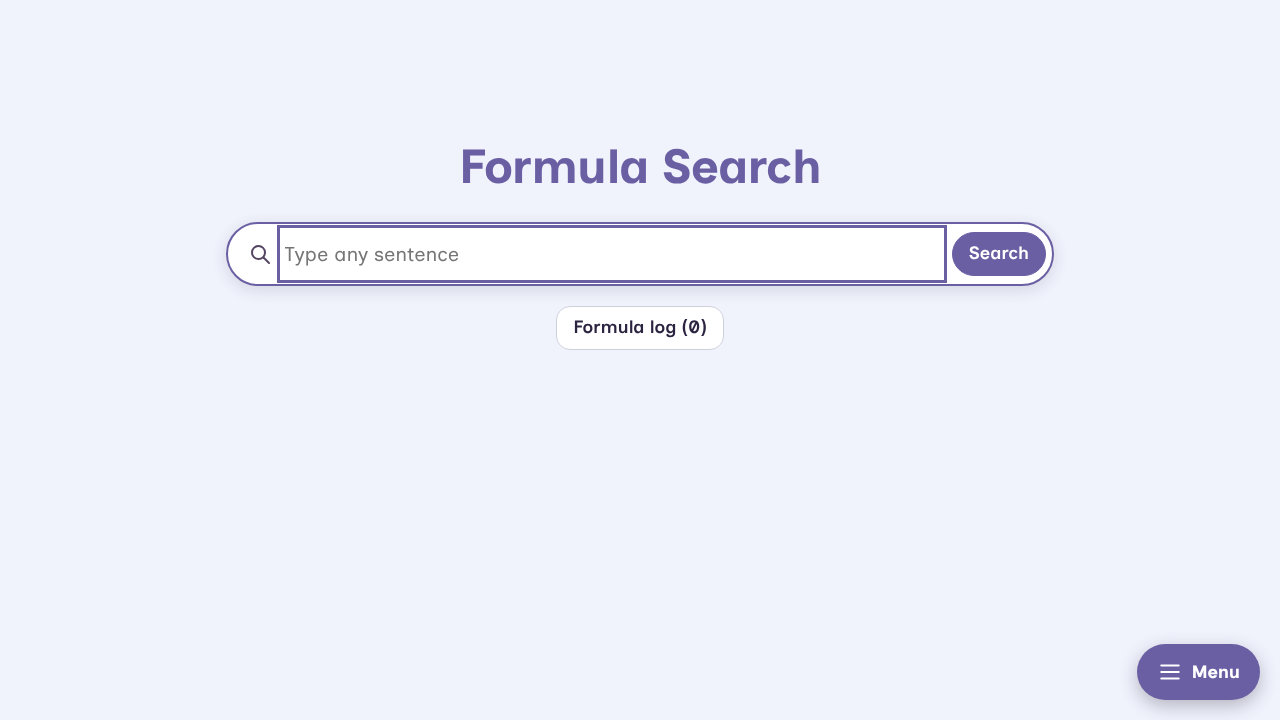
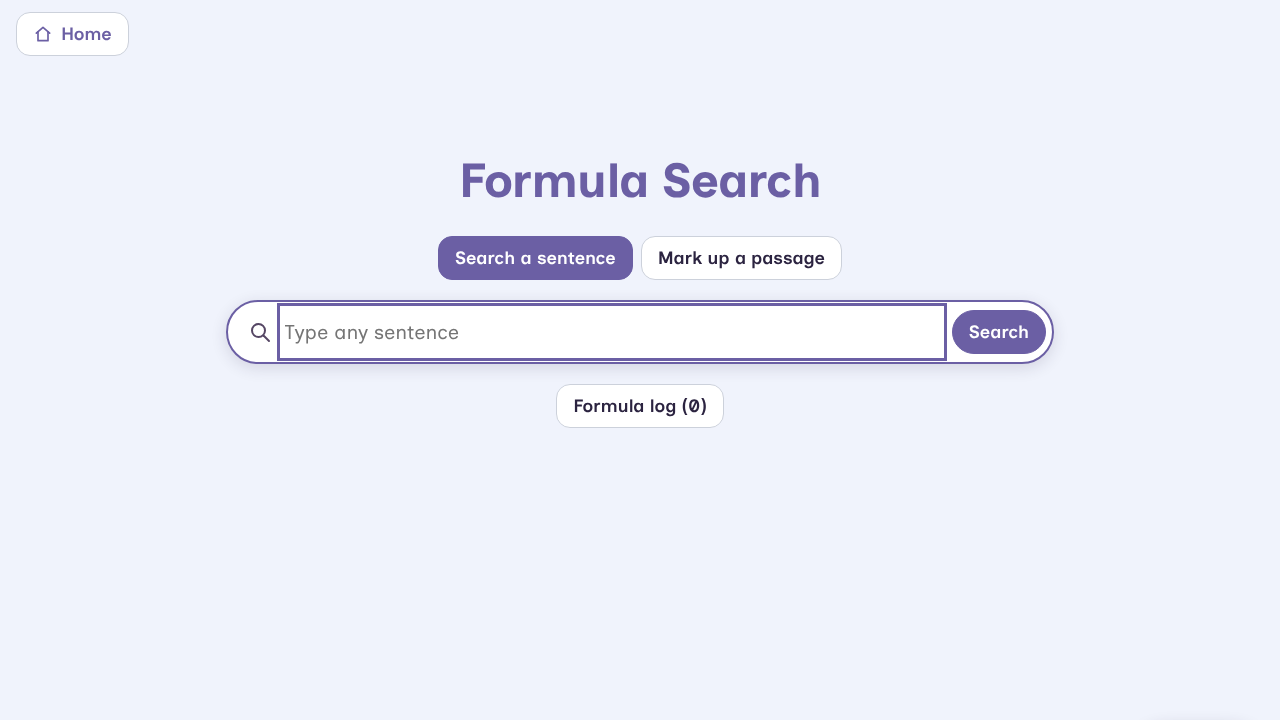
Passage markup becomes Formula Search's "Mark up a passage" tab
Claude-Session: https://claude.ai/code/session_01QWNYEZNRVibmbmSg3JgYmo

diff --git a/src/components/FormulaSearch.tsx b/src/components/FormulaSearch.tsx
@@ -12,6 +12,7 @@ import { loadWordTypes } from '../lib/wordTypes';
 import { addIdea, readIdeas, removeIdea, type FormulaIdea } from '../lib/writer/formulaBook';
 import { speak } from '../lib/word-explorer/speech';
 import { readPractice } from '../lib/writer/practice';
+import { PassageTab } from './FormulaPassage';
 
 // Formula Search (her request 2026-11-12): one search bar, like a web search home page. Type any sentence and the
 // formulas from her Formula Master List that match it appear. When none match, "Add suggested formula" logs the
@@ -38,6 +39,9 @@ export function FormulaSearch() {
   const [ready, setReady] = useState(false);
   const [log, setLog] = useState<FormulaIdea[]>(readIdeas);
   const [showLog, setShowLog] = useState(false);
+  // Two tabs: one sentence, or a whole passage marked up sentence by sentence (her request 2026-11-13).
+  const [tab, setTab] = useState<'sentence' | 'passage'>(() => (new URLSearchParams(window.location.search).get('tab') === 'passage' || window.location.pathname.startsWith('/passages') ? 'passage' : 'sentence'));
+  const pickTab = (t: 'sentence' | 'passage') => { setTab(t); window.history.replaceState(null, '', t === 'passage' ? '/formulas?tab=passage' : '/formulas'); setLog(readIdeas()); };
 
   useEffect(() => { document.title = 'Formula Search'; Promise.all([loadWords(), loadWordTypes()]).then(() => setReady(true)); }, []);
   const results = useMemo(() => (ready && query.trim() ? splitSentences(query).map((s) => readSentence(s.text)).filter((r): r is Reading => !!r) : []), [query, ready]);
@@ -50,8 +54,13 @@ export function FormulaSearch() {
   return (
     <div className="wx fs" data-theme="light">
       <div className="fs-top"><HomeButton className="wx-btn" /></div>
-      <main className={`fs-main${searched ? ' searched' : ''}`}>
-        <h1 className="fs-title"><a href="/formulas" onClick={(e) => { e.preventDefault(); setText(''); go(''); }}>Formula Search</a></h1>
+      <main className={`fs-main${searched || tab === 'passage' ? ' searched' : ''}${tab === 'passage' ? ' wide' : ''}`}>
+        <h1 className="fs-title"><a href="/formulas" onClick={(e) => { e.preventDefault(); setText(''); go(''); pickTab('sentence'); }}>Formula Search</a></h1>
+        <div className="fs-tabs" role="tablist" aria-label="Search a sentence or a passage">
+          <button type="button" role="tab" aria-selected={tab === 'sentence'} className={`wx-btn${tab === 'sentence' ? ' wx-btn-primary' : ''}`} onClick={() => pickTab('sentence')}>Search a sentence</button>
+          <button type="button" role="tab" aria-selected={tab === 'passage'} className={`wx-btn${tab === 'passage' ? ' wx-btn-primary' : ''}`} onClick={() => pickTab('passage')}>Mark up a passage</button>
+        </div>
+        {tab === 'passage' ? <PassageTab /> : <>
         <form className="fs-bar" role="search" onSubmit={(e) => { e.preventDefault(); go(text); }}>
           <Icon name="search" size={24} />
           <label htmlFor="fs-q" className="wx-sr">Type a sentence</label>
@@ -108,6 +117,12 @@ export function FormulaSearch() {
         {searched && (
           <div className="fs-home-links">
             <button type="button" className="wx-btn" onClick={() => setShowLog((s) => !s)} aria-expanded={showLog}>Formula log ({log.length})</button>
+          </div>
+        )}
+        </>}
+        {tab === 'passage' && (
+          <div className="fs-home-links">
+            <button type="button" className="wx-btn" onClick={() => { setLog(readIdeas()); setShowLog((s) => !s); }} aria-expanded={showLog}>Formula log ({log.length})</button>
           </div>
         )}
         {showLog && (

diff --git a/src/components/FormulaPassage.tsx b/src/components/FormulaPassage.tsx
@@ -1,10 +1,6 @@
-import '@fontsource-variable/inclusive-sans/wght.css';
-import './word-explorer/wordExplorer.css';
-import './passageBuilder.css';
+import './formulaPassage.css';
 import { useEffect, useMemo, useRef, useState } from 'react';
 import { Icon } from './Icon';
-import { HomeButton } from './HomeButton';
-import { MainMenu } from './MainMenu';
 import { FormulaSymbols } from './SentenceFormulas';
 import { GRAMMAR_SYMBOL_INFO, type SymbolWordClass } from '../lib/grammarSymbols';
 import { checkSentence, splitSentences, tagEngine, tagForCheck, type SentenceSpan } from '../lib/writer/sentenceCheck';
@@ -18,7 +14,7 @@ import { isBlockedText } from '../lib/word-explorer/safety';
 import { speak } from '../lib/word-explorer/speech';
 import type { TaggedWord } from '../lib/writer/tagger';
 
-// Passage Builder (her request 2026-11-13): paste any passage, student writing or public domain, and it is marked
+// Formula Search, "Mark up a passage" tab (her requests 2026-11-13; a tab of Formula Search, not its own tool): paste any passage, student writing or public domain, and it is marked
 // up like Write mode, with her grammar symbols over every word, broken into sentences, each with its formula code in
 // her notation and whether that formula is in her list. It builds the formula base: new patterns go to the formula
 // log, real sentences become practice sentences for their formula, and when the engine gets a word wrong, the
@@ -32,7 +28,7 @@ type Kind = 'student' | 'public';
 
 interface Row { span: SentenceSpan; words: TaggedWord[]; reading: ReturnType<typeof readFormula>; check?: ReturnType<typeof checkSentence>; blocked: boolean }
 
-export function PassageBuilder() {
+export function PassageTab() {
   const [text, setText] = useState('');
   const [passage, setPassage] = useState('');
   const [source, setSource] = useState('');
@@ -44,7 +40,7 @@ export function PassageBuilder() {
   const [practice, setPractice] = useState<Record<string, PracticeSentence[]>>(readPractice);
   const [message, setMessage] = useState('');
   const file = useRef<HTMLInputElement>(null);
-  useEffect(() => { document.title = 'Passage Builder'; Promise.all([loadWords(), loadWordTypes()]).then(() => setReady(true)); }, []);
+  useEffect(() => { Promise.all([loadWords(), loadWordTypes()]).then(() => setReady(true)); }, []);
 
   const rows = useMemo<Row[]>(() => {
     if (!ready || !passage.trim()) return [];
@@ -94,14 +90,7 @@ export function PassageBuilder() {
   };
 
   return (
-    <div className="wx pb" data-theme="light">
-      <header className="wx-header">
-        <HomeButton className="wx-btn" />
-        <span className="wx-appname" role="heading" aria-level={1}><Icon name="book" size={28} /><span>Passage Builder</span></span>
-        <span style={{ flex: 1 }} />
-        <a className="wx-btn" href="/formulas"><Icon name="search" size={22} /><span>Formula Search</span></a>
-      </header>
-      <main className="wx-main">
+    <div className="pb">
         <section className="wx-card">
           <form onSubmit={(e) => { e.preventDefault(); setPassage(text); setFix(null); }}>
             <label htmlFor="pb-text" className="wx-h2">Paste a passage</label>
@@ -233,8 +222,6 @@ export function PassageBuilder() {
           </div>
           {message && <p role="status">{message}</p>}
         </section>
-      </main>
-      <MainMenu />
     </div>
   );
 }

diff --git a/src/App.tsx b/src/App.tsx
@@ -4,19 +4,18 @@ import { WordExplorer } from './components/word-explorer/WordExplorer';
 import { FormulaSearch } from './components/FormulaSearch';
 import { DailyProcedure } from './components/procedures/DailyProcedure';
 import { WordListsApp } from './components/WordListsApp';
-import { PassageBuilder } from './components/PassageBuilder';
 import { isJoinRoute } from './lib/share';
 
-// Routes: "/" is the tools dashboard; "/whiteboard", "/write" and "/words" (Word Explorer) "/formulas" (Formula Search) and "/procedure" (Daily Procedure) "/lists" (Word List Maker) and "/passages" (Passage Builder) open the tools themselves.
+// Routes: "/" is the tools dashboard; "/whiteboard", "/write" and "/words" (Word Explorer) "/formulas" (Formula Search) and "/procedure" (Daily Procedure) and "/lists" (Word List Maker) open; "/passages" opens Formula Search on its passage tab the tools themselves.
 // "/join" and any page that embeds the board with "?welcome=0" (the Homeplot iframe) still go straight to the board.
-function route(): 'dashboard' | 'whiteboard' | 'write' | 'words' | 'formulas' | 'procedure' | 'lists' | 'passages' {
+function route(): 'dashboard' | 'whiteboard' | 'write' | 'words' | 'formulas' | 'procedure' | 'lists' {
   const path = window.location.pathname.replace(/\/+$/, '') || '/';
   if (path === '/write') return 'write';
   if (path === '/words') return 'words';
   if (path === '/formulas') return 'formulas';
   if (path === '/procedure') return 'procedure';
   if (path === '/lists') return 'lists';
-  if (path === '/passages') return 'passages';
+  if (path === '/passages') return 'formulas';
   if (path === '/whiteboard' || isJoinRoute()) return 'whiteboard';
   if (new URLSearchParams(window.location.search).has('welcome')) return 'whiteboard';
   return 'dashboard';
@@ -29,6 +28,5 @@ export default function App() {
   if (r === 'formulas') return <FormulaSearch />;
   if (r === 'procedure') return <DailyProcedure />;
   if (r === 'lists') return <WordListsApp />;
-  if (r === 'passages') return <PassageBuilder />;
   return <LiteracyManipulatives startInWriter={r === 'write'} />;
 }

diff --git a/src/lib/writer/corrections.ts b/src/lib/writer/corrections.ts
@@ -1,15 +1,15 @@
 import type { SymbolWordClass } from '../grammarSymbols';
 import type { TaggedWord } from './tagger';
 
-// Teacher corrections to the grammar engine (Passage Builder, her request 2026-11-13: "increase the accuracy of the
+// Teacher corrections to the grammar engine (Formula Search's passage tab, her request 2026-11-13: "increase the accuracy of the
 // logic behind our symbolic grammar program"). When the engine gives a word the wrong part of speech in a real
 // sentence, the teacher picks the right one. Each correction is kept with the words around it, and the engine uses
-// it from then on (sentenceCheck.tagForCheck, so Write mode, Formula Search, Word Explorer and the Passage Builder
+// it from then on (sentenceCheck.tagForCheck, so Write mode, Formula Search, Word Explorer and the passage tab
 // all improve):
 //   1. the same sentence: always;
 //   2. the same word with the same word before it, or the same word after it ("the run" / "a run");
 //   3. the same word everywhere, once at least two corrections agree and none disagree.
-// Every corrected sentence is also a test: the Passage Builder shows how often the engine gets them right.
+// Every corrected sentence is also a test: the passage tab shows how often the engine gets them right.
 
 export interface Correction { word: string; prev: string; next: string; to: SymbolWordClass; from: SymbolWordClass; sentence: string; at: string }
 const KEY = 'lm-pos-corrections-v1';

diff --git a/src/components/ToolDashboard.tsx b/src/components/ToolDashboard.tsx
@@ -40,16 +40,9 @@ const TOOLS: Tool[] = [
   },
   {
     title: 'Formula Search',
-    description: 'Type any sentence to find its sentence formulas. No match? Add the suggested formula to the formula log.',
+    description: 'Type any sentence to find its formulas, or mark up a whole passage (student writing or public domain) with the grammar symbols and a formula code for every sentence. New formulas go to the formula log.',
     href: '/formulas',
     image: '/dashboard/formula-search.png',
-    tags: ['Teacher tool', 'Formulas'],
-  },
-  {
-    title: 'Passage Builder',
-    description: 'Paste any passage, student writing or public domain. Each sentence is marked up with the grammar symbols and coded with its formula, in the list or new. Fix a symbol to make the grammar engine more accurate.',
-    href: '/passages',
-    image: '/dashboard/passage-builder.png',
     tags: ['Teacher tool', 'Formulas'],
   },
   {

diff --git a/src/lib/writer/practice.ts b/src/lib/writer/practice.ts
@@ -1,6 +1,6 @@
-// Real-world practice sentences for each formula code (Passage Builder, her request 2026-11-13): sentences from
+// Real-world practice sentences for each formula code (Formula Search's passage tab, her request 2026-11-13): sentences from
 // student writing or public domain passages that a teacher keeps as practice for that formula. Formula Search shows
-// them under the formula. Kept in this browser; the Passage Builder can download and open them as a file.
+// them under the formula. Kept in this browser; the passage tab can download and open them as a file.
 export interface PracticeSentence { sentence: string; source: string; kind: 'student' | 'public'; at: string }
 const KEY = 'lm-formula-practice-v1';
 export function readPractice(): Record<string, PracticeSentence[]> { try { return JSON.parse(localStorage.getItem(KEY) ?? '{}'); } catch { return {}; } }

diff --git a/src/lib/writer/formulaLookup.ts b/src/lib/writer/formulaLookup.ts
@@ -3,7 +3,7 @@ import { tagForCheck } from './sentenceCheck';
 import { cardSlotsOf, formulaCode, sentenceSlots, slotDistance, type Slot } from './formulaMatch';
 import { FORMULA_LIST, type ListedFormula } from './formulaList';
 
-// Looking a sentence up in her formula list (Formula Search and the Passage Builder share this).
+// Looking a sentence up in her formula list (Formula Search's sentence and passage tabs share this).
 // Her "All Sentence Formulas" list is the main list. Each formula's pattern is read from its own example sentence
 // by the same engine that reads the typed sentence, so they are compared the same way.
 export interface Listed extends ListedFormula { slots: Slot[]; cardSlots: string[]; card?: string; uses?: Listed[] }

diff --git a/src/components/formulaPassage.css b/src/components/formulaPassage.css
@@ -1,4 +1,7 @@
-/* Passage Builder: sentences marked up like Write mode, her symbols over each word. */
+/* Formula Search, Mark up a passage tab: sentences marked up like Write mode, her symbols over each word. */
+.pb { display: flex; flex-direction: column; gap: 16px; }
+.pb > .wx-card, .pb-sentences > .wx-card { margin-bottom: 0; }
+.pb-sentences { gap: 16px !important; }
 .pb-text { min-height: 160px; padding: 12px 16px; line-height: 1.5; resize: vertical; }
 .pb-row { display: flex; flex-wrap: wrap; gap: 8px; align-items: center; margin: 12px 0; }
 .pb-source { flex: 1 1 240px; }

diff --git a/src/lib/writer/sentenceCheck.ts b/src/lib/writer/sentenceCheck.ts
@@ -58,7 +58,7 @@ export function tagForCheck(text: string): TaggedWord[] {
   // her formulas.
   return applyCorrections(tagEngine(text), text);
 }
-// The engine alone, before teacher corrections (the Passage Builder measures it).
+// The engine alone, before teacher corrections (Formula Search's passage tab measures it).
 export function tagEngine(text: string): TaggedWord[] {
   return tagInContext(text).map((w) => (MODALS.has(w.word.toLowerCase()) ? { ...w, wordClass: 'verb' as SymbolWordClass } : w));
 }

diff --git a/src/components/MainMenu.tsx b/src/components/MainMenu.tsx
@@ -8,7 +8,6 @@ const LINKS = [
   { href: '/words', label: 'Word Explorer' },
   { href: '/lists', label: 'Word List Maker' },
   { href: '/formulas', label: 'Formula Search' },
-  { href: '/passages', label: 'Passage Builder' },
   { href: '/procedure', label: 'Daily Procedure' },
   { href: '/write', label: 'Word Processor' },
   { href: '/whiteboard?welcome=0', label: 'Whiteboard' },

diff --git a/src/components/formulaSearch.css b/src/components/formulaSearch.css
@@ -29,3 +29,5 @@
 .fs-use { display: flex; flex-direction: column; gap: 2px; padding-bottom: 6px; border-bottom: 1px dashed var(--line); }
 .fs-use:last-of-type { border-bottom: 0; }
 .fs-top { position: absolute; top: 12px; left: 16px; }
+.fs-main.wide { max-width: 1160px; }
+.fs-tabs { display: flex; flex-wrap: wrap; justify-content: center; gap: 8px; }

diff --git a/DEVELOPMENT_LOG.md b/DEVELOPMENT_LOG.md
@@ -944,3 +944,11 @@ but code them in our code".
 - Code: `src/components/PassageBuilder.tsx`, `src/lib/writer/corrections.ts` (fixes, learning and accuracy),
   `src/lib/writer/practice.ts`, `src/lib/writer/formulaLookup.ts` (shared with Formula Search); `tagForCheck` now
   applies the fixes and `tagEngine` is the engine alone.
+
+## 2026-11-13: The passage tool is a tab of Formula Search
+
+Her request: "I dont want it to be called passage builder but rather i want it to be a tab that can be accessed through
+the formula finder". The tool is now Formula Search's **Mark up a passage** tab, beside **Search a sentence**
+(`/formulas?tab=passage`; old `/passages` links open it). It has no dashboard card or menu entry of its own; the Formula
+Search card describes both tabs. The Formula log button shows on both tabs. Code: `src/components/FormulaPassage.tsx`
+(`PassageTab`), `formulaPassage.css`.
